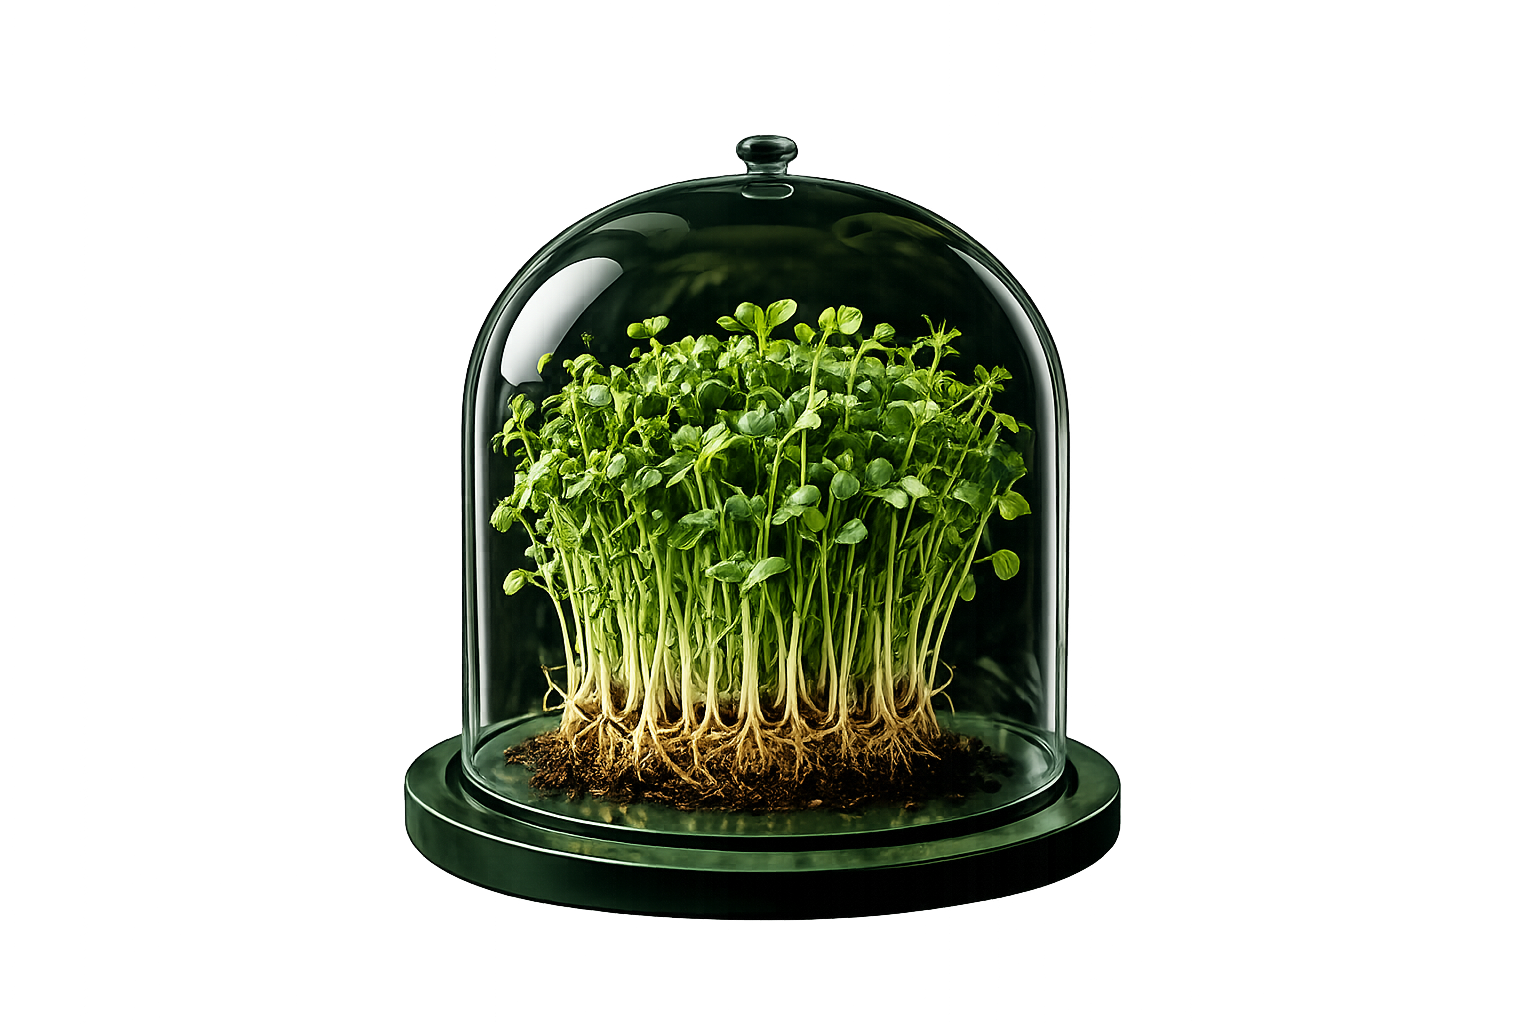
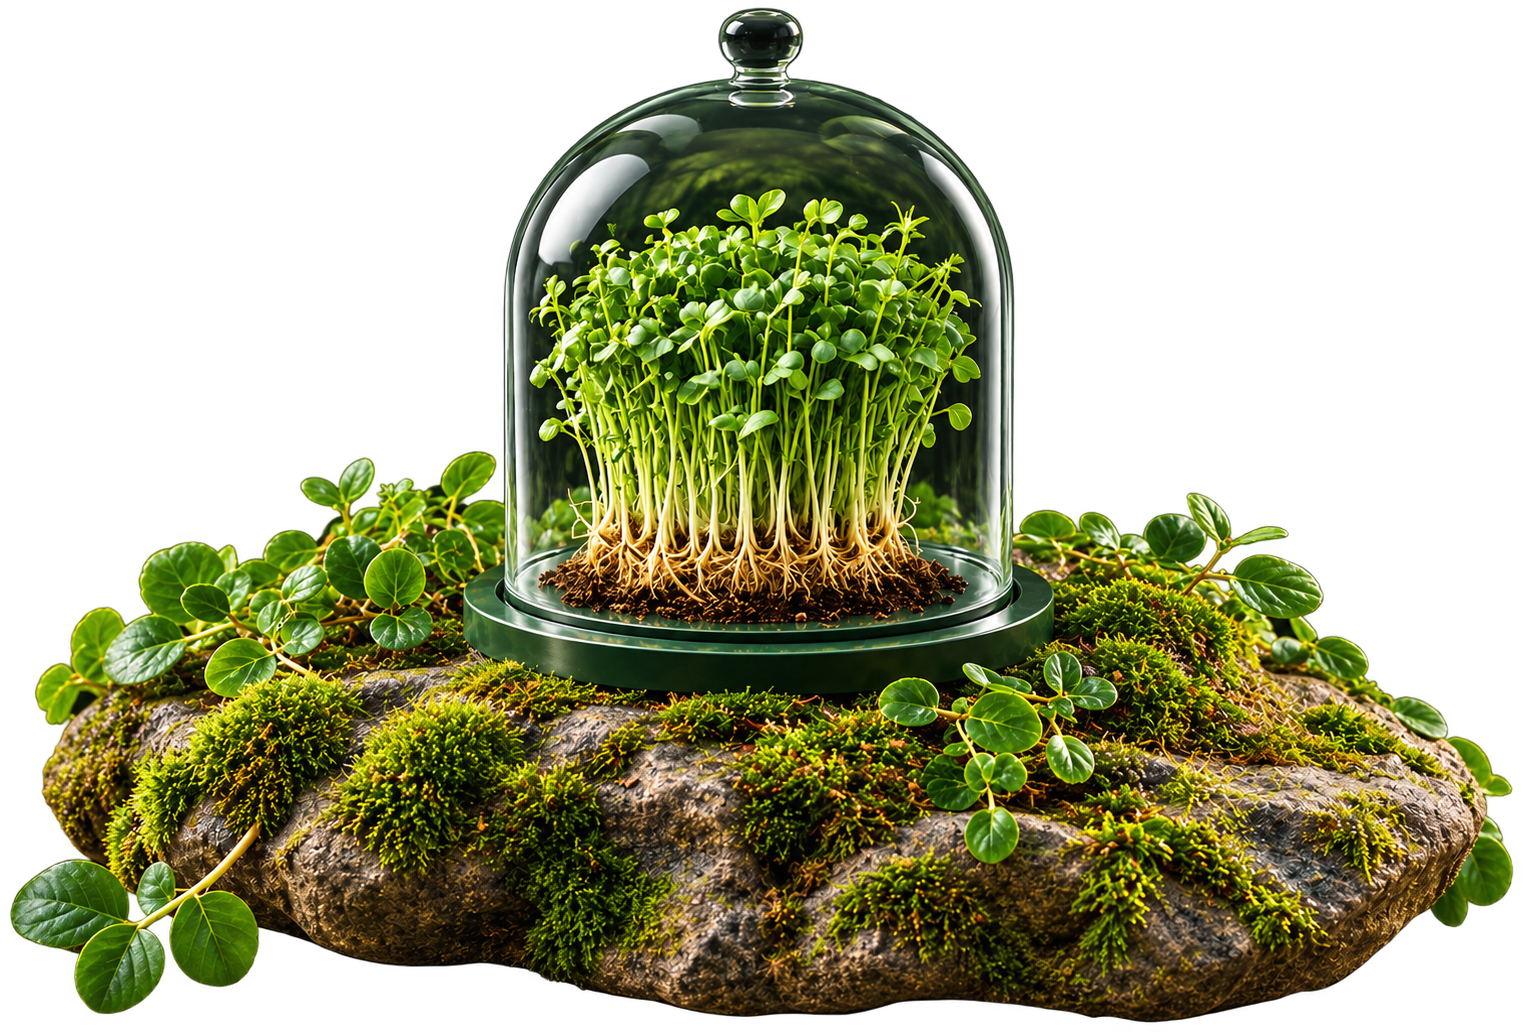
Update navbar and scroll sequence, swap hero images

diff --git a/website/components/Navbar.tsx b/website/components/Navbar.tsx
@@ -13,52 +13,61 @@ const LINKS = [
   { label: "Journal", href: "/blog" },
 ];
 
-export function Navbar() {
+export function Navbar({ variant = "solid" }: { variant?: "solid" | "overlay" }) {
   const { subscription } = usePreorder();
   const cartCount = useCartStore((s) => s.items.reduce((sum, i) => sum + i.quantity, 0));
   const openCart = useCartStore((s) => s.openCart);
   const activeCount = cartCount + (subscription ? 1 : 0);
+  const isOverlay = variant === "overlay";
 
   return (
-    <header className="relative z-20 mx-auto flex max-w-7xl items-center justify-between px-6 py-6 md:px-10">
-      <Link href="/" className="font-display text-2xl leading-none">
-        mini greens
-        <br />
-        <span className="text-(--color-sage)">company.</span>
-      </Link>
-
-      <nav className="hidden items-center gap-8 text-sm text-(--color-muted) lg:flex">
-        <Link href="/#story" className="transition-colors hover:text-(--color-cream)">
-          Our Story
+    <header className={isOverlay ? "fixed inset-x-0 top-0 z-30" : "relative z-20"}>
+      {isOverlay && (
+        <div
+          aria-hidden
+          className="pointer-events-none absolute inset-x-0 -bottom-12 top-0 -z-10 bg-gradient-to-b from-black/55 via-black/20 to-transparent"
+        />
+      )}
+      <div className="mx-auto flex max-w-7xl items-center justify-between px-6 py-6 md:px-10">
+        <Link href="/" className="font-display text-2xl leading-none">
+          mini greens
+          <br />
+          <span className="text-(--color-sage)">& tea co.</span>
         </Link>
-        <Suspense fallback={<span>Shop</span>}>
-          <ShopMenu />
-        </Suspense>
-        {LINKS.map((link) => (
-          <Link key={link.label} href={link.href} className="transition-colors hover:text-(--color-cream)">
-            {link.label}
+
+        <nav className="hidden items-center gap-8 text-sm text-(--color-muted) lg:flex">
+          <Link href="/#story" className="transition-colors hover:text-(--color-cream)">
+            Our Story
           </Link>
-        ))}
-      </nav>
+          <Suspense fallback={<span>Shop</span>}>
+            <ShopMenu />
+          </Suspense>
+          {LINKS.map((link) => (
+            <Link key={link.label} href={link.href} className="transition-colors hover:text-(--color-cream)">
+              {link.label}
+            </Link>
+          ))}
+        </nav>
 
-      <div className="flex items-center gap-3">
-        <Link
-          href="/shop"
-          className="rounded-full bg-(--color-olive) px-5 py-2.5 text-sm font-medium text-white transition-colors hover:bg-(--color-olive-dark)"
-        >
-          Shop Teas
-        </Link>
-        <button
-          type="button"
-          onClick={openCart}
-          aria-label="View your cart"
-          className="relative flex size-10 items-center justify-center rounded-full border border-(--color-border) text-(--color-cream) transition-colors hover:border-(--color-sage)"
-        >
-          <ShoppingBag size={18} />
-          <span className="absolute -right-1 -top-1 flex size-4 items-center justify-center rounded-full bg-(--color-sage) text-[10px] font-semibold text-(--color-ink)">
-            {activeCount}
-          </span>
-        </button>
+        <div className="flex items-center gap-3">
+          <Link
+            href="/shop"
+            className="rounded-full bg-(--color-olive) px-5 py-2.5 text-sm font-medium text-white transition-colors hover:bg-(--color-olive-dark)"
+          >
+            Shop Teas
+          </Link>
+          <button
+            type="button"
+            onClick={openCart}
+            aria-label="View your cart"
+            className="relative flex size-10 items-center justify-center rounded-full border border-(--color-border) text-(--color-cream) transition-colors hover:border-(--color-sage)"
+          >
+            <ShoppingBag size={18} />
+            <span className="absolute -right-1 -top-1 flex size-4 items-center justify-center rounded-full bg-(--color-sage) text-[10px] font-semibold text-(--color-ink)">
+              {activeCount}
+            </span>
+          </button>
+        </div>
       </div>
     </header>
   );

diff --git a/website/components/ScrollSequence.tsx b/website/components/ScrollSequence.tsx
@@ -2,7 +2,10 @@
 
 import { useEffect, useRef } from "react";
 
-const FRAME_COUNT = 604;
+// The sequence has 604 frames of raw footage, but the animation should settle
+// and stop at the "Three minutes, that is all it takes" pose — frame 482 —
+// rather than playing through to the end.
+const PLAYBACK_FRAMES = 482;
 const FRAME_SRC = (i: number) =>
   `/hero-sequence/f${String(i + 1).padStart(4, "0")}.webp`;
 
@@ -57,7 +60,7 @@ export function ScrollSequence() {
     };
 
     const nearestLoaded = (index: number) => {
-      for (let d = 0; d < FRAME_COUNT; d++) {
+      for (let d = 0; d < PLAYBACK_FRAMES; d++) {
         const before = images.current[index - d];
         if (before?.complete && before.naturalWidth) return before;
         const after = images.current[index + d];
@@ -70,7 +73,7 @@ export function ScrollSequence() {
       const rect = section.getBoundingClientRect();
       const distance = section.offsetHeight - window.innerHeight;
       const progress = clamp(-rect.top / Math.max(distance, 1), 0, 1);
-      const index = Math.round(progress * (FRAME_COUNT - 1));
+      const index = Math.round(progress * (PLAYBACK_FRAMES - 1));
 
       if (index !== drawn.current) {
         const img = nearestLoaded(index);
@@ -118,9 +121,9 @@ export function ScrollSequence() {
       }
     };
 
-    images.current = new Array(FRAME_COUNT);
+    images.current = new Array(PLAYBACK_FRAMES);
     load(0, 40);
-    const idle = window.setTimeout(() => load(40, FRAME_COUNT), 600);
+    const idle = window.setTimeout(() => load(40, PLAYBACK_FRAMES), 600);
 
     resize();
     window.addEventListener("scroll", onScroll, { passive: true });

diff --git a/website/app/page.tsx b/website/app/page.tsx
@@ -14,7 +14,7 @@ export default function Home() {
   return (
     <div className="relative overflow-x-clip">
       <LeafDecor />
-      <Navbar />
+      <Navbar variant="overlay" />
       <ScrollSequence />
       <div className="h-32 bg-gradient-to-b from-(--color-ink) to-transparent" />
       <TeaCarousel />
